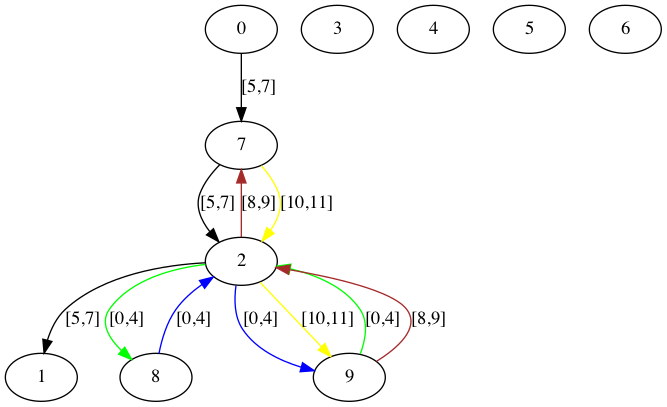
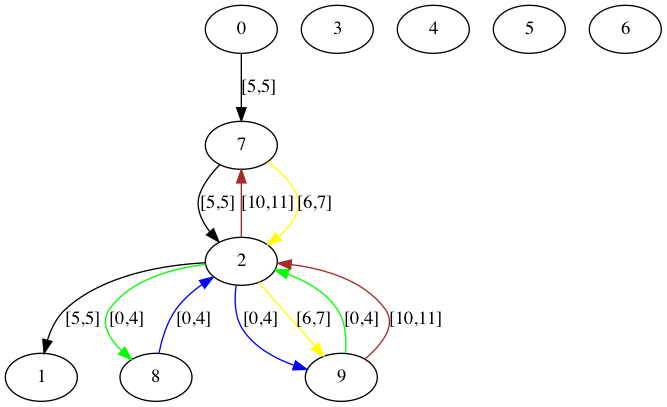
draw added to bob the builder

diff --git a/src/rsa/rsa_draw.py b/src/rsa/rsa_draw.py
@@ -13,7 +13,7 @@ color_short_hands = ['blue', 'green', 'yellow', 'brown', 'black', 'purple', 'lig
 color_map = {i : color_short_hands[i] for i in range(len(color_short_hands))}
 
 def draw_assignment(assignment: dict[str, bool], base, topology:MultiDiGraph, 
-                    demand_to_channels, unique_channels, overlapping_channels):
+                    demand_to_channels, unique_channels, overlapping_channels, file_path="../assignedGraphs/assignedRSA"):
     
     def power(l_var: str):
         val = int(l_var.replace(prefixes[ET.CHANNEL], ""))
@@ -56,14 +56,14 @@ def draw_assignment(assignment: dict[str, bool], base, topology:MultiDiGraph,
                 network.add_edge(source, target, label=f"[{channel[0]},{channel[-1]}]", color="red", style="dotted")
                 print("Error found")
                 
-    nx.nx_pydot.write_dot(network, "../assignedGraphs/" + "assignedRSA" + ".dot") 
-    graphs = pydot.graph_from_dot_file("../assignedGraphs/" + "assignedRSA" + ".dot")   
+    nx.nx_pydot.write_dot(network, file_path + ".dot") 
+    graphs = pydot.graph_from_dot_file(file_path + ".dot")   
     if graphs is not None:
         (graph,) = graphs
         graph.del_node('"\\n"')
-        graph.write_png("../assignedGraphs/" + "assignedRSA" + ".png")     
+        graph.write_png(file_path + ".png")     
 
-def draw_assignment_path_vars(assignment: dict[str, bool], base, paths: list[list], unique_channels, topology: MultiDiGraph):
+def draw_assignment_path_vars(assignment: dict[str, bool], base, paths: list[list], unique_channels, topology: MultiDiGraph, file_path="../assignedGraphs/assignedRSA"):
     def power(var: str, type: ET):
         val = int(var.replace(prefixes[type], ""))
         # Total binary vars - var val (hence l1 => |binary vars|)
@@ -95,7 +95,7 @@ def draw_assignment_path_vars(assignment: dict[str, bool], base, paths: list[lis
     for demand_id in base.demand_vars.keys():
         path = paths[counting_path_number[str(demand_id)]]
         channel_index = demand_to_chosen_channel[str(demand_id)]
-        print(path)
+
         for source, target, number in path:
             slots_used_on_edges[(source, target, number)].append(channel_index)    
             channel = unique_channels[channel_index]
@@ -108,12 +108,12 @@ def draw_assignment_path_vars(assignment: dict[str, bool], base, paths: list[lis
     # plt.savefig("./assignedGraphs/" + "assigned" + ".png", format="png")
     # plt.close()  
     
-    nx.nx_pydot.write_dot(network, "../assignedGraphs/" + "assignedRSA" + ".dot") 
-    graphs = pydot.graph_from_dot_file("../assignedGraphs/" + "assignedRSA" + ".dot")   
+    nx.nx_pydot.write_dot(network, file_path + ".dot") 
+    graphs = pydot.graph_from_dot_file(file_path + ".dot")   
     if graphs is not None:
         (graph,) = graphs
         graph.del_node('"\\n"')
-        graph.write_png("../assignedGraphs/" + "assignedRSA" + ".png")     
+        graph.write_png(file_path + ".png")   
 
 if __name__ == "__main__":
   
@@ -138,7 +138,6 @@ if __name__ == "__main__":
     #print(sizes)
     overlapping, unique = topology.get_overlapping_channels(channels)
     
-    demands[4].size = 3
     
     #rsa = RSAProblem(G, demands, ordering, channels, unique, overlapping, limit=True)
     rsa = AllRightBuilder(G, demands).encoded_fixed_paths(1).split(True).limited().construct()

diff --git a/src/RSABuilder.py b/src/RSABuilder.py
@@ -5,6 +5,7 @@ from niceBDD import *
 from niceBDDBlocks import ChannelFullNoClashBlock, ChannelNoClashBlock, ChannelOverlap, ChannelSequentialBlock, DynamicAddBlock, ChangedBlock, DemandPathBlock, EncodedFixedPathBlock, FixedPathBlock, InBlock, OutBlock, PathOverlapsBlock, PassesBlock, PathBlock, RoutingAndChannelBlock, SingleOutBlock, SourceBlock, SplitAddAllBlock, SplitAddBlock, TargetBlock, TrivialBlock
 from niceBDDBlocks import EncodedFixedPathBlockSplit, EncodedChannelNoClashBlock
 import topology
+import rsa.rsa_draw
 
 class AllRightBuilder:
     
@@ -62,13 +63,12 @@ class AllRightBuilder:
     def get_overlapping_channels(self):
         return self.__channel_data.overlapping_channels
     
-    
     def get_demands(self):
         return self.__demands
     
     def get_build_time(self):
         return self.__build_time
-      
+    
     def dynamic(self, max_demands = 128):
         self.__dynamic = True
         self.__dynamic_max_demands = max_demands
@@ -369,19 +369,36 @@ class AllRightBuilder:
         
             assignments.append(a)
         
-        return assignments  
+        return assignments
+    
+    def draw(self, amount=1000, fps=1, controllable=True, file_path="./assignedGraphs/assigned"):
+        for i in range(1,amount): 
+            assignments = self.get_assignments(i)
+    
+            if len(assignments) < i:
+                break
+            if self.__pathing == AllRightBuilder.FixedPathType.ENCODED:
+                rsa.rsa_draw.draw_assignment_path_vars(assignments[i-1], self.result_bdd.base, self.get_simple_paths(), 
+                            self.get_unique_channels(), self.__topology, file_path)
+            else:
+                rsa.rsa_draw.draw_assignment(assignments[i-1], self.result_bdd.base,self.__topology, self.__channel_data.channels, self.__channel_data.unique_channels, self.__channel_data.overlapping_channels, file_path)
+            
+            if not controllable:
+                time.sleep(fps)  
+            else:
+                input("Proceed?")
+            
     
 if __name__ == "__main__":
     G = topology.get_nx_graph(topology.TOPZOO_PATH +  "/Arpanet19706.gml")
-    demands = topology.get_gravity_demands(G, 10,seed=10)
-
-    p = AllRightBuilder(G, demands).encoded_fixed_paths(3).limited().split(True).construct()
+    demands = topology.get_gravity_demands(G, 3,seed=10)
+    print(demands)
+    p = AllRightBuilder(G, demands).encoded_fixed_paths(3).limited().split(True).construct().draw()
     #baseline = AllRightBuilder(G, demands).encoded_fixed_paths(3).limited().construct()
     
     # print(p.result_bdd.base.bdd == baseline.result_bdd.base.bdd)
     # p.print_result()
     # pretty_print(p.result_bdd.base.bdd, p.result_bdd.expr)
-    print(p.size())
     #print(baseline.size())
     #pretty_print(baseline.result_bdd.base.bdd, baseline.result_bdd.expr)  
     
